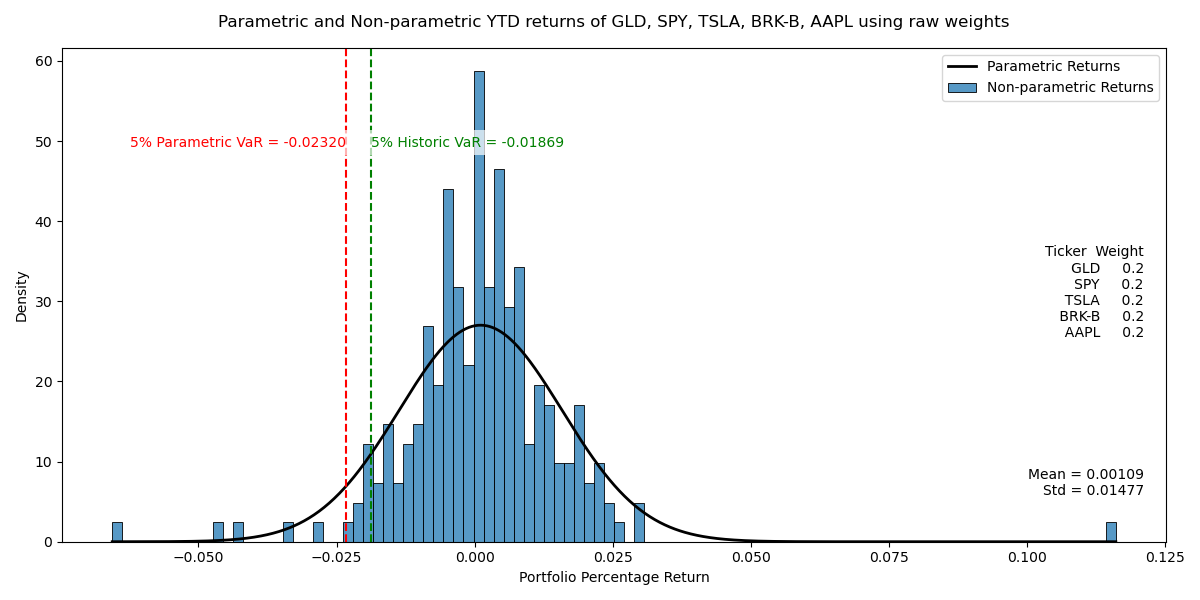
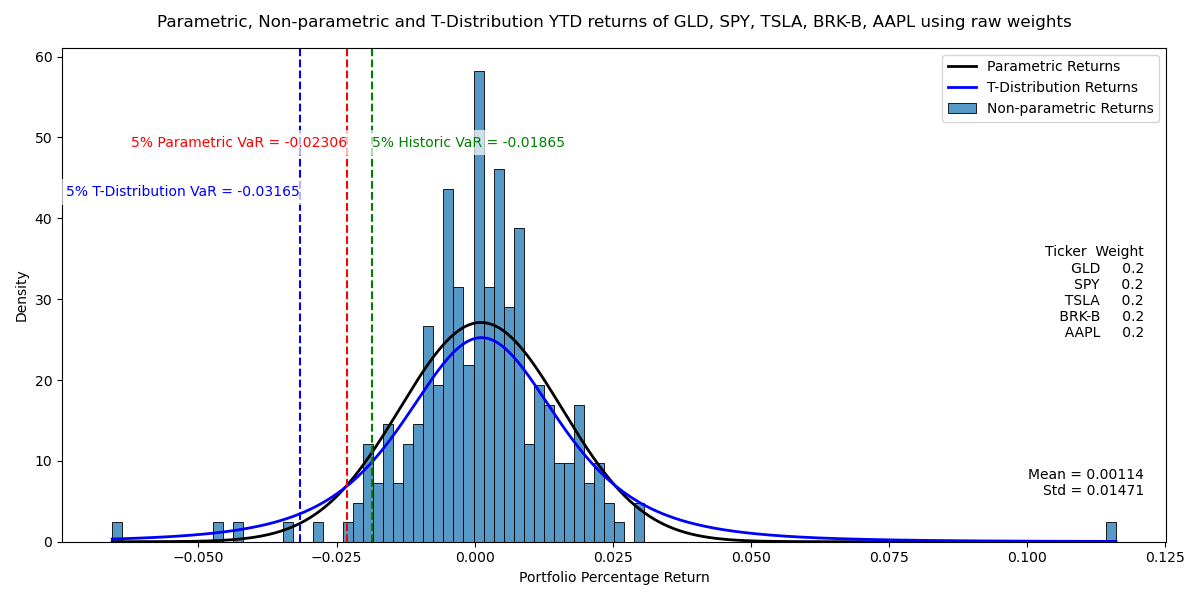
Introduced T distribution
Added T backtest and T plots onto the output

diff --git a/SCRIPTS/stat_methods.py b/SCRIPTS/stat_methods.py
@@ -7,6 +7,7 @@ from scipy.optimize import minimize
 import matplotlib.pyplot as plt
 from scipy.stats import norm
 import seaborn as sns 
+from scipy.stats import t
 
 
 def portfolio_variance(weights,cov_matrix):
@@ -35,6 +36,28 @@ def parametric_backtest(returns, weights):
     ann_count = np.ceil(percent*252)
     return percent, ann_count
 
+def t_backtest(returns, weights):
+    portfolio_return=(returns*weights).sum(axis=1)
+    portfolio_return.name = "return"
+    portfolio_df = portfolio_return.to_frame()
+    def fit_nu(x):
+        nu, loc, scale = t.fit(x)
+        return nu
+    def fit_loc(x):
+        nu, loc, scale = t.fit(x)
+        return loc
+    portfolio_df['rolling_std'] = portfolio_df['return'].rolling(window=504).std()
+    portfolio_df['nu']    =  portfolio_df['return'].rolling(window=504).apply(fit_nu, raw=False)
+    portfolio_df['loc']   =  portfolio_df['return'].rolling(window=504).apply(fit_loc, raw=False)
+    t_quantile = t.ppf(0.05,  portfolio_df['nu'])
+    portfolio_df['t_var'] = (portfolio_df['loc'] + t_quantile * portfolio_df['rolling_std']).shift(1)
+    portfolio_df = portfolio_df[["return","t_var"]].dropna(subset=['t_var'])
+    portfolio_df['in limit'] = portfolio_df['return'] < portfolio_df['t_var']
+    count = portfolio_df['in limit'].sum()   
+    percent=count/len(portfolio_df)
+    ann_count = np.ceil(percent * 252)             
+    return percent, ann_count
+
 def classify_zone(x):
     if 0 <= x <= 4:
         return "Green Zone"
@@ -49,15 +72,20 @@ def varplots(returns,weights, weight_type, img_path,tickers):
     portfolio_returns = (returns * weights).sum(axis=1)
     mean = portfolio_returns.mean()
     std = portfolio_returns.std()
+    nu, loc, scale = t.fit(portfolio_returns)
     portfolio_parametric_var = mean - 1.645 * std
     portfolio_historic_var = np.percentile(portfolio_returns, 5)
+    portfolio_t_var = loc + t.ppf(0.05,nu)*std
     x = np.linspace(portfolio_returns.min(), portfolio_returns.max(), 1000)
     pdf = norm.pdf(x, mean, std)
+    t_pdf = t.pdf(x, df=nu, loc=loc, scale=std)
     fig, ax = plt.subplots(figsize=(12, 6))
     sns.histplot(portfolio_returns, bins=100, stat='density',label="Non-parametric Returns", ax=ax)
     ax.plot(x, pdf, linewidth=2, color='black', label='Parametric Returns')
+    ax.plot(x, t_pdf, linewidth=2, color='blue', label='T-Distribution Returns')
     ax.axvline(portfolio_parametric_var, color='r', linestyle='dashed')
     ax.axvline(portfolio_historic_var, color='g', linestyle='dashed')
+    ax.axvline(portfolio_t_var, color='blue', linestyle='dashed')
     ax.text(
         portfolio_parametric_var, ax.get_ylim()[1]*0.8,
         f"5% Parametric VaR = {portfolio_parametric_var:.5f}",
@@ -68,6 +96,12 @@ def varplots(returns,weights, weight_type, img_path,tickers):
         portfolio_historic_var, ax.get_ylim()[1]*0.8,
         f"5% Historic VaR = {portfolio_historic_var:.5f}",
         color='g', ha='left', fontsize=10,
+        bbox=dict(facecolor='white', edgecolor='none', alpha=0.7)
+    )
+    ax.text(
+        portfolio_t_var, ax.get_ylim()[1]*0.7,
+        f"5% T-Distribution VaR = {portfolio_t_var:.5f}",
+        color='blue', ha='right', fontsize=10,
         bbox=dict(facecolor='white', edgecolor='none', alpha=0.7)
     )
     ax.text(
@@ -89,19 +123,17 @@ def varplots(returns,weights, weight_type, img_path,tickers):
         bbox=dict(facecolor='white', alpha=0.7, edgecolor='none')
     )
     ax.set_xlabel("Portfolio Percentage Return") 
-    ax.set_title(f'Parametric and Non-parametric YTD returns of '+ f', '.join(tickers) + f' using {weight_type} weights',wrap=True, pad=15)
+    ax.set_title(f'Parametric, Non-parametric and T-Distribution YTD returns of '+ f', '.join(tickers) + f' using {weight_type} weights',wrap=True, pad=15)
     ax.legend()
     fig.tight_layout()
     fig.savefig(img_path)
     plt.close(fig)
 
 def calculate_var(returns, confidence=0.95):
-    # Historical VaR: just find the 5th percentile
     historical_var = np.percentile(returns, 5)
-    
-    # Parametric VaR: mean - 1.645*std (for 95% confidence)
     mean = returns.mean()
     std = returns.std()
     parametric_var = mean - 1.645 * std
-    
-    return historical_var, parametric_var
+    nu, loc, scale=t.fit(returns)
+    t_var=loc + t.ppf(0.05, nu )* std
+    return historical_var, parametric_var, t_var

diff --git a/main.py b/main.py
@@ -41,38 +41,58 @@ portfolio_optimised.to_csv("DATA/portfolio_optimised.csv", index=False)
 # Backtesting
 data_test = data[data.index >= TEST_DATE]
 returns_test = data_test.pct_change().dropna()
-raw_historical_var, raw_parametric_var = sm.calculate_var(returns_test.dot(weights_prior), confidence=0.95)
-opt_historical_var, opt_parametric_var = sm.calculate_var(returns_test.dot(weights_optimal), confidence=0.95)
-
+raw_historical_var, raw_parametric_var, raw_t_var = sm.calculate_var(returns_test.dot(weights_prior), confidence=0.95)
+opt_historical_var, opt_parametric_var, opt_t_var = sm.calculate_var(returns_test.dot(weights_optimal), confidence=0.95)
+# Parametric Backtesting
 returns = data.pct_change().dropna()
 raw_exception_pct, raw_exception_ann_count = sm.parametric_backtest(returns, weights_prior)
 opt_exception_pct, opt_exception_ann_count = sm.parametric_backtest(returns, weights_optimal)
-
 raw_zone = sm.classify_zone(raw_exception_ann_count)
 opt_zone = sm.classify_zone(opt_exception_ann_count)
+# T test backtesting 
+t_raw_exception_pct, t_raw_exception_ann_count = sm.t_backtest(returns, weights_prior)
+t_opt_exception_pct, t_opt_exception_ann_count = sm.t_backtest(returns, weights_optimal)
+t_raw_zone = sm.classify_zone(t_raw_exception_ann_count)
+t_opt_zone = sm.classify_zone(t_opt_exception_ann_count)
 
 backtest_metrics = pd.DataFrame({
     'Metric': ['Raw Portfolio Historical VaR %',
                'Raw Portfolio Parametric VaR %',
-               'Raw Portfolio Exception %', 
-               'Raw Portfolio Annual Exception Count',
-               'Raw Portfolio Model Zone', 
+               'Raw Portfollio T-Distribution VaR %',
+               'Raw Portfolio Exception % under Parametric Distribution', 
+               'Raw Portfolio Annual Exception Count under Parametric Distribution',
+               'Raw Portfolio Zone under Parametric Distribution', 
+               'Raw Portfolio Exception % under T-Distribution', 
+               'Raw Portfolio Annual Exception Count under T-Distribution',
+               'Raw Portfolio Zone under T-Distribution', 
                'Optimised Portfolio Historical VaR %',
                'Optimised Portfolio Parametric VaR %',
+               'Optimised Portfollio T-Distribution VaR %',
                'Optimised Portfolio Exception %', 
                'Optimised Portfolio Annual Exception Count',
-               'Optimised Portfolio Model Zone'
+               'Optimised Portfolio Model Zone',
+               'Optimised Portfolio Exception % under T-Distribution', 
+               'Optimised Portfolio Annual Exception Count under T-Distribution',
+               'Optimised Portfolio Zone under T-Distribution',
                ],
     'Value': [round(raw_historical_var,4)*100,
               round(raw_parametric_var,4)*100,
+              round(raw_t_var,4)*100,
               round(raw_exception_pct,4)*100, 
               raw_exception_ann_count,
               raw_zone,
+              round(t_raw_exception_pct,4)*100, 
+              t_raw_exception_ann_count,
+              t_raw_zone,
               round(opt_historical_var,4)*100,
               round(opt_parametric_var,4)*100,
+              round(opt_t_var,4)*100,
               round(opt_exception_pct,4)*100, 
               opt_exception_ann_count,
-              opt_zone
+              opt_zone,
+              round(t_opt_exception_pct,4)*100, 
+              t_opt_exception_ann_count,
+              t_opt_zone
               ]
 })
 backtest_metrics.to_csv("DATA/backtest_metrics.csv", index=False)
